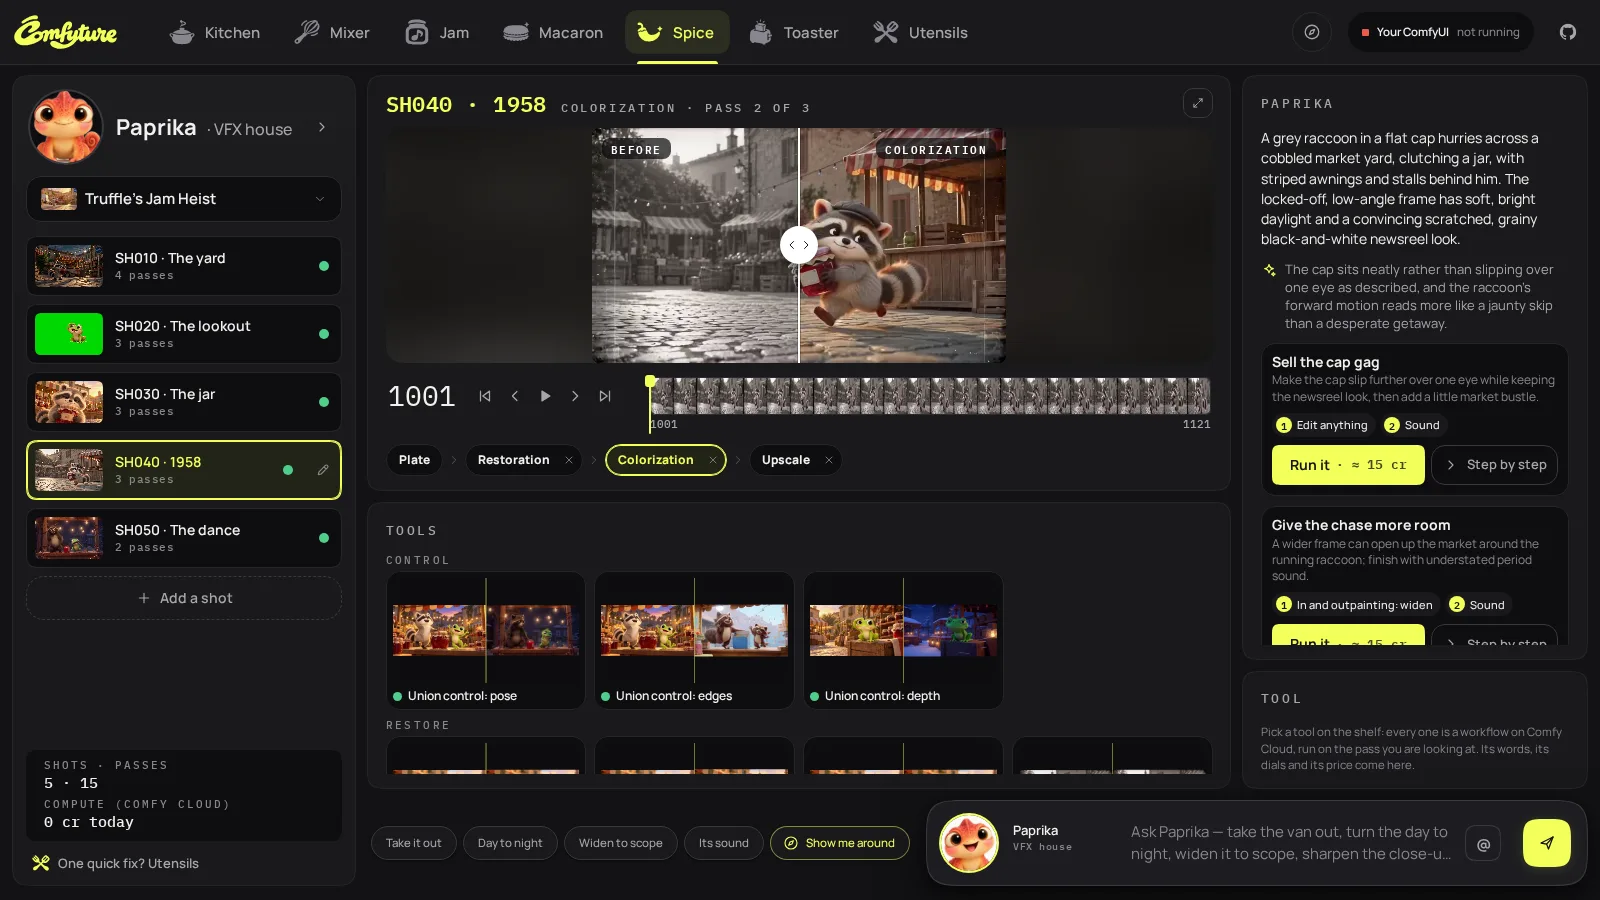
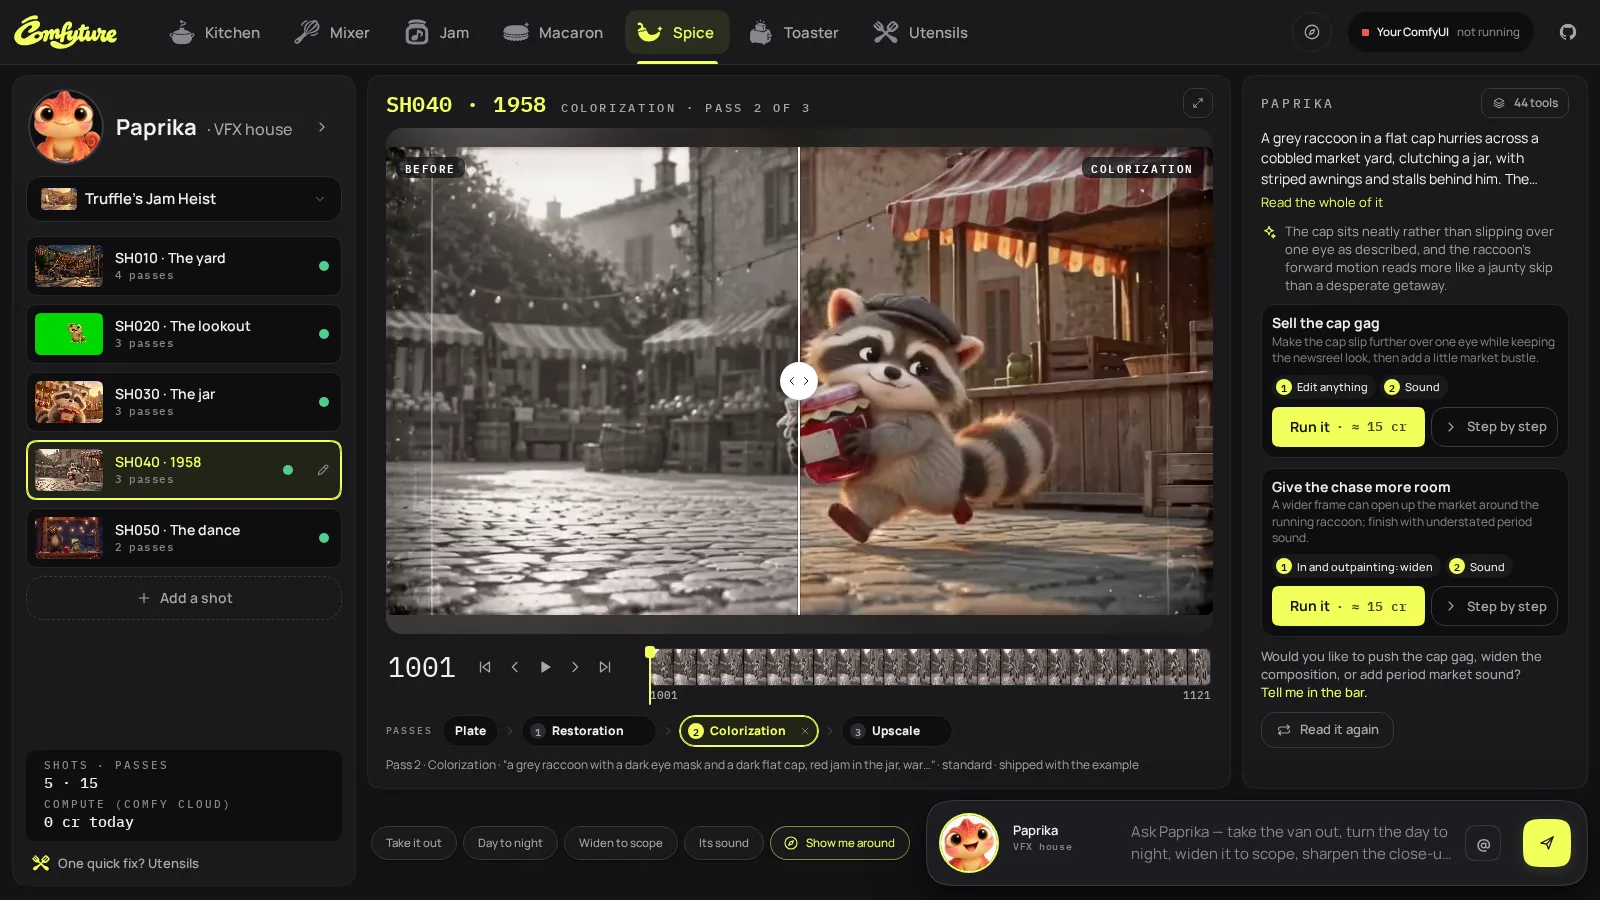
Beat 5's Spice keyframes are captured a third time, on the one-panel Spice (the viewer, its numbered passes, Paprika's read and priced chains, the 44 tools a key away), and their captions say so

diff --git a/docs/competition/storyboard.html b/docs/competition/storyboard.html
@@ -328,8 +328,8 @@
     <div class="body">
       <div class="frames">
         <figure class="wide">
-          <button class="shot" data-full="keyframes/k10-spice-yard.webp"><img src="keyframes/k10-spice-yard.webp" alt="Spice's SH010, the yard: the wipe between the market by day and its Day to night pass, the chain of passes under the viewer, the tool cards and Paprika's read with its chains"><span class="ost">Spice · plate → inpaint → day to night → outpaint → sound</span></button>
-          <figcaption>SH010 of the shipped <em>Truffle's Jam Heist</em>: Day to night wiped against the clip it ran on, the chain of four passes under it, the tools as cards with what a real run was given and what it made, and Paprika's read of the shot with two priced chains.</figcaption>
+          <button class="shot" data-full="keyframes/k10-spice-yard.webp"><img src="keyframes/k10-spice-yard.webp" alt="Spice's SH010, the yard: the wipe between the market by day and its Day to night pass, the numbered passes under the viewer, and Paprika's panel with her read and two priced chains"><span class="ost">Spice · plate → inpaint → day to night → outpaint → sound</span></button>
+          <figcaption>SH010 of the shipped <em>Truffle's Jam Heist</em>: Day to night wiped against the clip it ran on, the four numbered passes under it, and beside it one panel: Paprika's read of the shot and two priced chains, with the 44 tools a key away.</figcaption>
         </figure>
         <figure>
           <button class="shot" data-full="keyframes/k11-spice-1958.webp"><img src="keyframes/k11-spice-1958.webp" alt="Spice's SH040, 1958: Colorization wiped from grey to colour"><span class="ost">Colorization · an IC-LoRA of LTX-2.3</span></button>

diff --git a/docs/competition/VIDEO.md b/docs/competition/VIDEO.md
@@ -53,7 +53,7 @@ folder, no key and a dead render address: no credit was spent. Frames of our cas
 | `k07-film-ketkout` | 3 | Real output: take 1D. |
 | `k08-toaster-build` | 4 | **Staged**: Crumpet's answer was written by hand (no model called), in a new draft beside the example; the app built the scene from it as from a real answer. With no key, *Toast it* reads "GPU time". |
 | `k09-toaster-render`, `k23-toaster-clay-to-render` | 4 | Toaster's shipped example *Crumpet's workbench*: its Render page, and its clay frame beside the finished still. The stills were drawn with GPT Image (free, through Codex) and the page labels them so: for the open-weights category, re-toast them with Qwen Image 2.1 (a few credits, **your yes**) or keep the labels out of frame. **No turnaround or 3D model exists yet**, and the 3D part is **on hold since 25 October**: the owner said it is wrong and will explain. Until then beat 4 ends on the render, and the voice-over drops "then into a real 3D model". |
-| `k10-spice-yard`, `k11-spice-1958`, `k22-spice-cutout` | 5, 10 | Spice's shipped *Truffle's Jam Heist* on a fresh install, captured 26 October after the rebuild: SH010's Day to night wipe with its chain, the tool cards (a real run's before and after on each) and Paprika's read with its priced chains; SH040's Colorization wipe; SH020 cut out on green by SAM3. Every pass shown is a real run. Re-captured 26 October at 21:00 on the layout of f905421. |
+| `k10-spice-yard`, `k11-spice-1958`, `k22-spice-cutout` | 5, 10 | Spice's shipped *Truffle's Jam Heist* on a fresh install, captured 26 October after the rebuild: SH010's Day to night wipe with its numbered passes and Paprika's panel (her read, two priced chains, the 44 tools a key away); SH040's Colorization wipe; SH020 cut out on green by SAM3. Every pass shown is a real run. Re-captured 27 October at 01:15 on the one-panel layout of 760703a. |
 | `k12-jam-track`, `k13-jam-band` | 6 | *Moonlit Oolong Walk*, Jam's shipped example (our ACE-Step song, Taro the otter), on a fresh install: the track and the band. The Toc Toc and Hotel Lobby showcases, which played commercial recordings, were retired on 25 October (D1): Jam ships only our three. |
 | `k14-jam-otter` | 6 | Real output: the otter singing *Moonlit Oolong Walk* (lip-sync, LTX-2.5). |
 | `k15-mixer-shelf` | 7 | **Depends on D1**: the shelf shows song-titled trends. |
